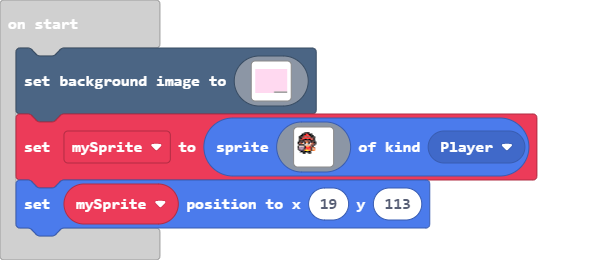
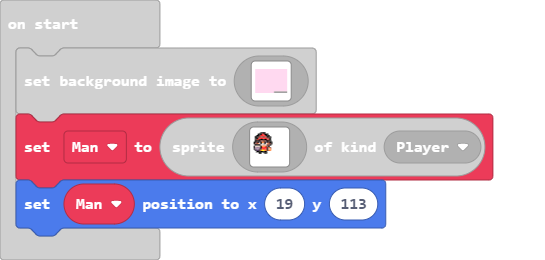
Update main.blocks, main.ts

diff --git a/main.ts b/main.ts
@@ -120,7 +120,7 @@ scene.setBackgroundImage(img`
[2 lines of base64/hex data omitted]
     `)
-let mySprite = sprites.create(img`
+let Man = sprites.create(img`
     ........................
     .....ffff...............
     ...fff22fff.............
@@ -146,4 +146,4 @@ let mySprite = sprites.create(img`
     ........................
     ........................
     `, SpriteKind.Player)
-mySprite.setPosition(19, 113)
+Man.setPosition(19, 113)
